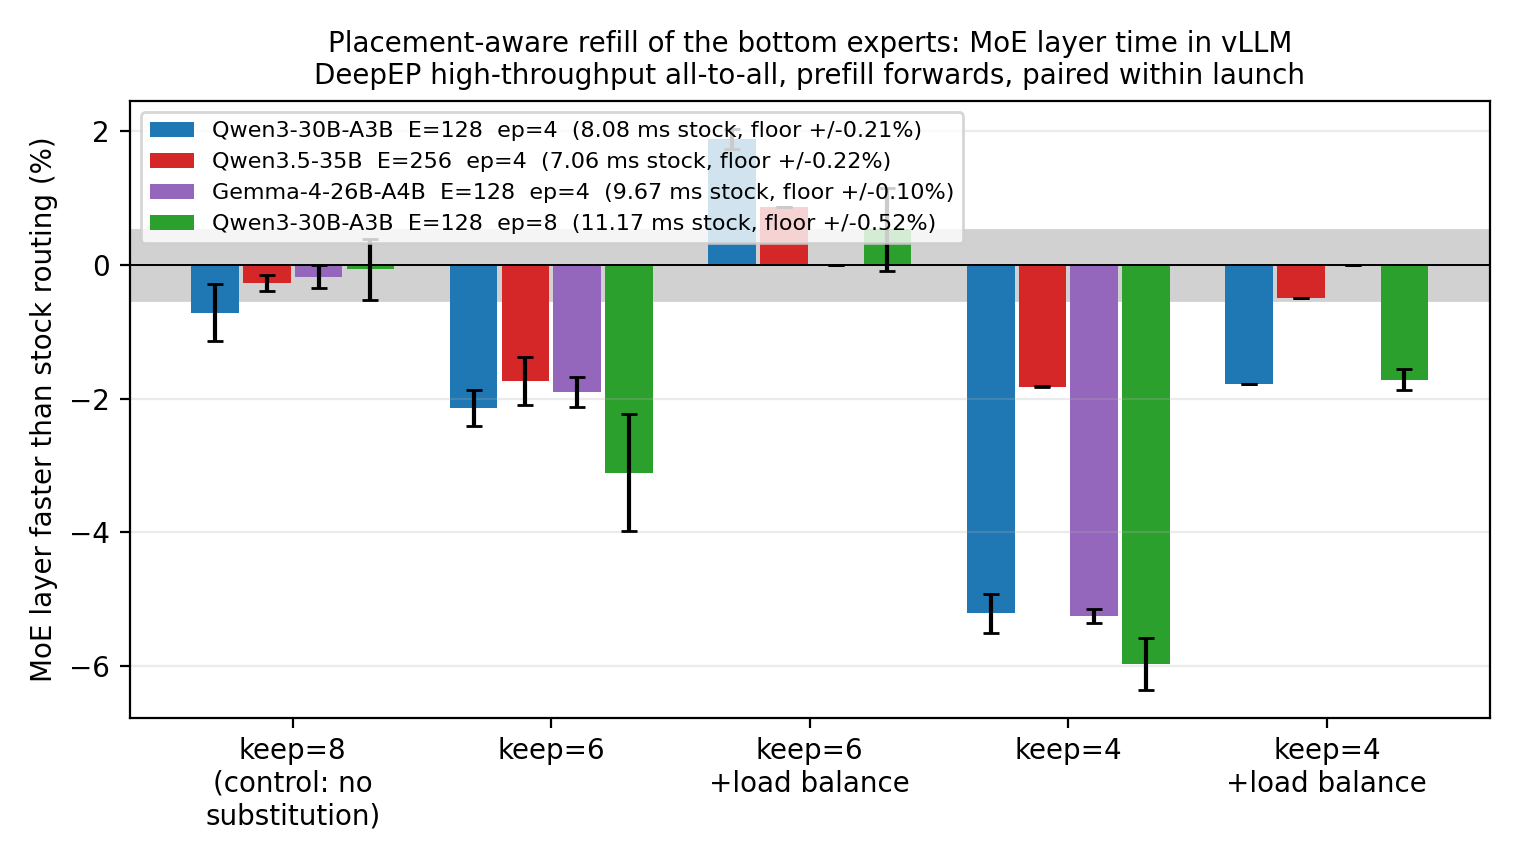
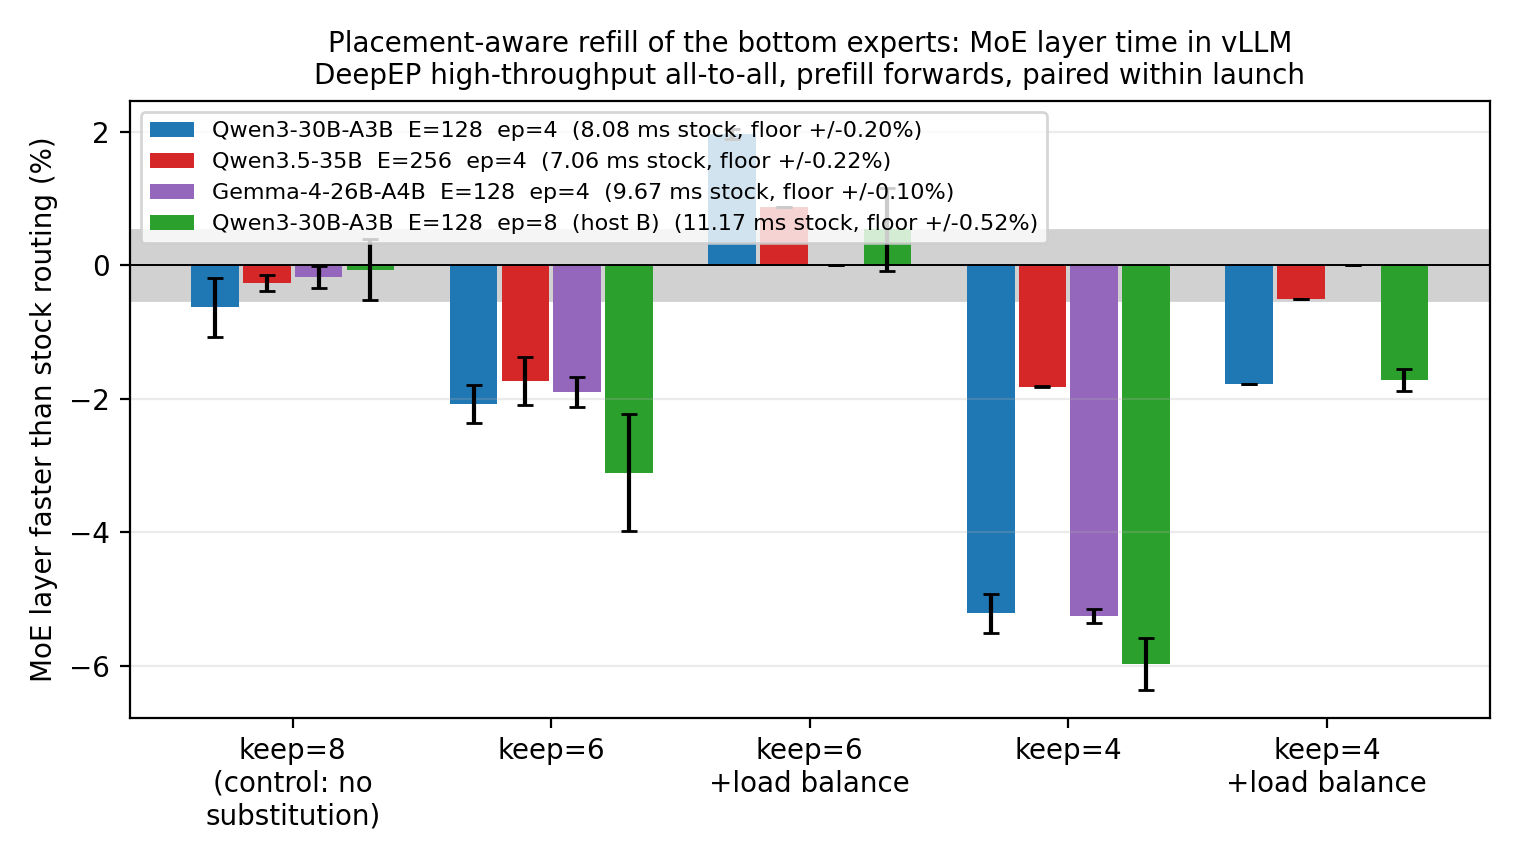
Keep the render alive while a sweep's base2 arm is still loading
A row with no base-against-base launch has no measured floor, so drop it with
a note instead of failing the whole table. Also label the two host-B rows so
the ep=4 to ep=8 step can be read without crossing clusters.

diff --git a/experiments/moeplot.py b/experiments/moeplot.py
@@ -40,9 +40,13 @@ KEY = "buckets" if PHASE == "moe" else PHASE
 NAME = {"moe": "MoE layer", "disp": "DeepEP dispatch", "comb": "DeepEP combine"}[PHASE]
 STEM = f"runs/{'moetime' if PHASE == 'moe' else PHASE + 'time'}"
 
+# `q30c4` and `q30e8` are the same model on the same host type at two world sizes, so the
+# ep scaling can be read without crossing clusters.
 LABEL = {"q30pf": "Qwen3-30B-A3B  E=128  ep=4", "q35pf": "Qwen3.5-35B  E=256  ep=4",
-         "gmpf": "Gemma-4-26B-A4B  E=128  ep=4", "q30e8": "Qwen3-30B-A3B  E=128  ep=8"}
-COLOR = {"q30pf": "#1f77b4", "q35pf": "#d62728", "gmpf": "#9467bd", "q30e8": "#2ca02c"}
+         "gmpf": "Gemma-4-26B-A4B  E=128  ep=4", "q30c4": "Qwen3-30B-A3B  E=128  ep=4  (host B)",
+         "q30e8": "Qwen3-30B-A3B  E=128  ep=8  (host B)"}
+COLOR = {"q30pf": "#1f77b4", "q35pf": "#d62728", "gmpf": "#9467bd", "q30c4": "#ff7f0e",
+         "q30e8": "#2ca02c"}
 OUT = f"{STEM}.png"
 
 
@@ -98,11 +102,15 @@ def gains() -> tuple[dict, dict, dict]:
             spreads[tag].append((hi - lo) / lo * 100)
     if not per:
         raise SystemExit("no paired moetime launches yet")
-    missing = [t for t in per if t not in spreads]
-    if missing:
-        raise SystemExit(f"no launch loaded the stock engine twice for {missing}, "
-                         "so those floors are unmeasured")
-    return per, {t: max(v) / 2 for t, v in spreads.items()}, stock
+    # A row with no base-against-base launch has no measured resolution, so it is not
+    # publishable yet - drop it rather than print a cell nothing bounds. A sweep in flight
+    # hits this for a few minutes, because `base2` is the last arm to load.
+    for t in [t for t in per if t not in spreads]:
+        print(f"SKIP {t}: no launch loaded the stock engine twice, floor unmeasured")
+        del per[t]
+    if not per:
+        raise SystemExit("no paired moetime launches with a measured floor yet")
+    return per, {t: max(v) / 2 for t, v in spreads.items() if t in per}, stock
 
 
 def main() -> None:

diff --git a/README.md b/README.md
@@ -195,10 +195,10 @@ the zero-substitution control: the kernel runs and selects nothing different.
 <!-- disptime -->
 | model | stock ms / deepep dispatch | tokens / forward | floor | keep=8 (control: no substitution) | keep=6 | keep=6 +load balance | keep=4 | keep=4 +load balance |
 |---|---|---|---|---|---|---|---|---|
-| Qwen3-30B-A3B  E=128  ep=4 | 1.96 | 16384 | +/-0.41% | **+0.0%** x3 | **+0.9%** x2 | **+0.8%** x2 | **+4.0%** x1 | - |
+| Qwen3-30B-A3B  E=128  ep=4 | 1.96 | 16384 | +/-0.36% | **+0.0%** x4 | **+0.8%** x4 | **+0.8%** x4 | **+4.0%** x1 | - |
 | Qwen3.5-35B  E=256  ep=4 | 1.94 | 16384 | +/-0.16% | **-0.0%** x1 | - | **+0.0%** x1 | - | **+2.7%** x1 |
 | Gemma-4-26B-A4B  E=128  ep=4 | 2.13 | 16384 | +/-0.02% | **-0.2%** x1 | **+0.7%** x1 | - | **+3.9%** x1 | - |
-| Qwen3-30B-A3B  E=128  ep=8 | 2.23 | 16384 | +/-0.05% | **+0.0%** x3 | **+3.9%** x3 | **+4.0%** x5 | **+10.7%** x2 | **+10.4%** x2 |
+| Qwen3-30B-A3B  E=128  ep=8  (host B) | 2.23 | 16384 | +/-0.05% | **+0.0%** x3 | **+3.9%** x3 | **+4.0%** x5 | **+10.7%** x2 | **+10.4%** x2 |
 <!-- /disptime -->
 
 The numbers are the 16384-token prefill bucket, `x`n is how many independent launches each cell
@@ -220,14 +220,14 @@ also what the load-balance term is for - adding the max-rank-load penalty to the
 <!-- moetime -->
 | model | stock ms / moe layer | tokens / forward | floor | keep=8 (control: no substitution) | keep=6 | keep=6 +load balance | keep=4 | keep=4 +load balance |
 |---|---|---|---|---|---|---|---|---|
-| Qwen3-30B-A3B  E=128  ep=4 | 8.08 | 16384 | +/-0.21% | **-0.7%** x5 | **-2.1%** x4 | **+1.9%** x3 | **-5.2%** x3 | **-1.8%** x1 |
+| Qwen3-30B-A3B  E=128  ep=4 | 8.08 | 16384 | +/-0.20% | **-0.6%** x6 | **-2.1%** x6 | **+2.0%** x4 | **-5.2%** x3 | **-1.8%** x1 |
 | Qwen3.5-35B  E=256  ep=4 | 7.06 | 16384 | +/-0.22% | **-0.3%** x3 | **-1.7%** x2 | **+0.9%** x1 | **-1.8%** x2 | **-0.5%** x1 |
 | Gemma-4-26B-A4B  E=128  ep=4 | 9.67 | 16384 | +/-0.10% | **-0.2%** x2 | **-1.9%** x2 | - | **-5.2%** x2 | - |
-| Qwen3-30B-A3B  E=128  ep=8 | 11.17 | 16384 | +/-0.52% | **-0.1%** x4 | **-3.1%** x3 | **+0.5%** x6 | **-6.0%** x2 | **-1.7%** x3 |
+| Qwen3-30B-A3B  E=128  ep=8  (host B) | 11.17 | 16384 | +/-0.52% | **-0.1%** x4 | **-3.1%** x3 | **+0.5%** x6 | **-6.0%** x2 | **-1.7%** x3 |
 <!-- /moetime -->
 
 `keep=6` with the load-balance term is the only arm that clears the floor on the whole-layer
-clock, and it clears it on every family it has been measured on - +1.9%, +0.9%, +0.5% - while
+clock, and it clears it on every family it has been measured on - +2.0%, +0.9%, +0.5% - while
 the dispatch saving underneath is 10x to 200x its own floor at every budget. That is the split,
 and it is why both figures are here: `runs/disptime.png` measures the term the rule acts on,
 and `runs/moetime.png` measures what reaches the layer after the grouped GEMM has had its say.

diff --git a/runs/moetime.md b/runs/moetime.md
@@ -2,7 +2,7 @@ MoE layer time inside a running vLLM 0.31 engine on the DeepEP high-throughput a
 
 | model | stock ms / moe layer | tokens / forward | floor | keep=8 (control: no substitution) | keep=6 | keep=6 +load balance | keep=4 | keep=4 +load balance |
 |---|---|---|---|---|---|---|---|---|
-| Qwen3-30B-A3B  E=128  ep=4 | 8.08 | 16384 | +/-0.21% | **-0.7%** x5 | **-2.1%** x4 | **+1.9%** x3 | **-5.2%** x3 | **-1.8%** x1 |
+| Qwen3-30B-A3B  E=128  ep=4 | 8.08 | 16384 | +/-0.20% | **-0.6%** x6 | **-2.1%** x6 | **+2.0%** x4 | **-5.2%** x3 | **-1.8%** x1 |
 | Qwen3.5-35B  E=256  ep=4 | 7.06 | 16384 | +/-0.22% | **-0.3%** x3 | **-1.7%** x2 | **+0.9%** x1 | **-1.8%** x2 | **-0.5%** x1 |
 | Gemma-4-26B-A4B  E=128  ep=4 | 9.67 | 16384 | +/-0.10% | **-0.2%** x2 | **-1.9%** x2 | - | **-5.2%** x2 | - |
-| Qwen3-30B-A3B  E=128  ep=8 | 11.17 | 16384 | +/-0.52% | **-0.1%** x4 | **-3.1%** x3 | **+0.5%** x6 | **-6.0%** x2 | **-1.7%** x3 |
+| Qwen3-30B-A3B  E=128  ep=8  (host B) | 11.17 | 16384 | +/-0.52% | **-0.1%** x4 | **-3.1%** x3 | **+0.5%** x6 | **-6.0%** x2 | **-1.7%** x3 |

diff --git a/runs/disptime.md b/runs/disptime.md
@@ -2,7 +2,7 @@ DeepEP dispatch time inside a running vLLM 0.31 engine on the DeepEP high-throug
 
 | model | stock ms / deepep dispatch | tokens / forward | floor | keep=8 (control: no substitution) | keep=6 | keep=6 +load balance | keep=4 | keep=4 +load balance |
 |---|---|---|---|---|---|---|---|---|
-| Qwen3-30B-A3B  E=128  ep=4 | 1.96 | 16384 | +/-0.41% | **+0.0%** x3 | **+0.8%** x3 | **+0.8%** x3 | **+4.0%** x1 | - |
+| Qwen3-30B-A3B  E=128  ep=4 | 1.96 | 16384 | +/-0.36% | **+0.0%** x4 | **+0.8%** x4 | **+0.8%** x4 | **+4.0%** x1 | - |
 | Qwen3.5-35B  E=256  ep=4 | 1.94 | 16384 | +/-0.16% | **-0.0%** x1 | - | **+0.0%** x1 | - | **+2.7%** x1 |
 | Gemma-4-26B-A4B  E=128  ep=4 | 2.13 | 16384 | +/-0.02% | **-0.2%** x1 | **+0.7%** x1 | - | **+3.9%** x1 | - |
-| Qwen3-30B-A3B  E=128  ep=8 | 2.23 | 16384 | +/-0.05% | **+0.0%** x3 | **+3.9%** x3 | **+4.0%** x5 | **+10.7%** x2 | **+10.4%** x2 |
+| Qwen3-30B-A3B  E=128  ep=8  (host B) | 2.23 | 16384 | +/-0.05% | **+0.0%** x3 | **+3.9%** x3 | **+4.0%** x5 | **+10.7%** x2 | **+10.4%** x2 |
